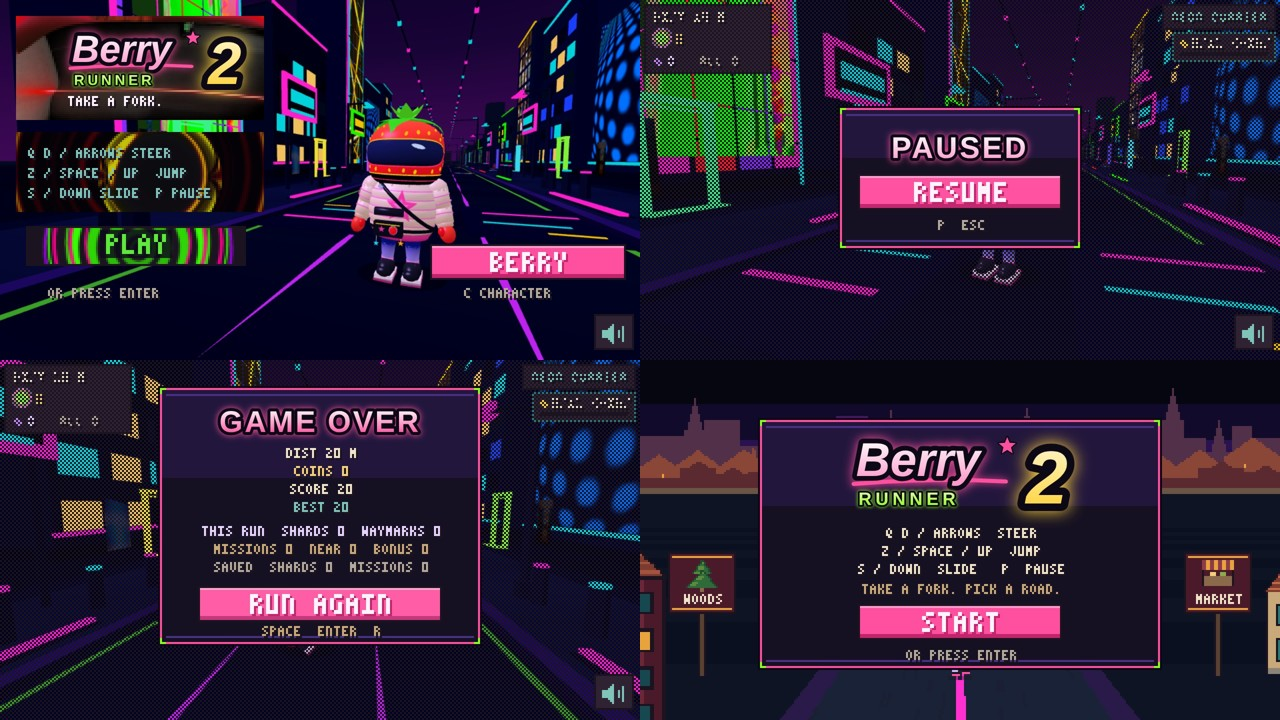
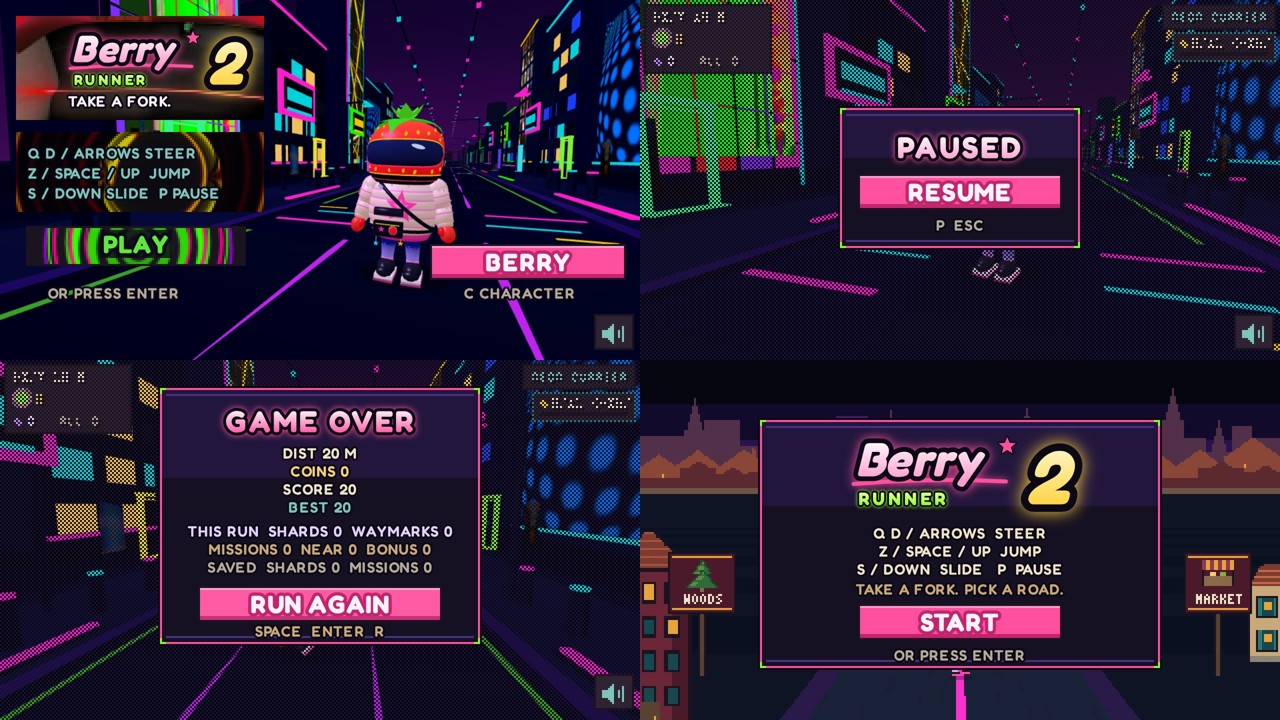
Menus: every line lettered in the game's font (Fredoka) at the screen's resolution
- the hints, the game-over figures and the button labels join the logo and the headings on the
  smooth layer (Renderer.txt / ctr collect a menu's text; drawMenuHi letters it)
- Fredoka (OFL) bundled in assets/fonts and cached by the service worker (cache v2)
- the UI test looks for the controls text on the smooth layer

diff --git a/src/render.js b/src/render.js
@@ -109,7 +109,7 @@ class Renderer {
   drawUI(g) {
     const ctx = this.ctx;
     if (g.state === 'race' && g.race) { this.drawRaceHud(g); this.drawTouch(g); if (g.fadeIn > 0) this.drawSceneOverlay(g); return; }
-    if (g.racePaused) { this.drawRaceHud(g); this.drawTouch(g); this.drawPause(g); if (g.sfx) this.drawSoundBtn(g); return; }      // a paused race: its own HUD under the same PAUSED panel as the run's
+    if (g.racePaused) { this.drawRaceHud(g); this.drawTouch(g); const hq = this.hiMenu(g) ? (this._hq = []) : null; this.drawPause(g); this._hq = null; if (hq) this.drawMenuHi(g, this.touchLayer(), hq); if (g.sfx) this.drawSoundBtn(g); return; }      // a paused race: its own HUD under the same PAUSED panel as the run's
     // (g.vr: the 3D build in immersive VR, src3d/xr3d.js. This canvas is then a floating panel, so what covers the whole screen (the flash, the portal light, the fades, the letterbox) and the
     // screen-space scooter disc are left out of it, and so are the keyboard / touch hints; nothing else changes)
     if (g.state === 'over' && g.flash > 0 && !g.vr) { ctx.globalAlpha = 0.5; ctx.fillStyle = C.burg; ctx.fillRect(0, 0, VW, VH); ctx.globalAlpha = 1; }
@@ -118,9 +118,11 @@ class Renderer {
     this.drawTouch(g);
     if (g.state === 'play' && !g.vr) this.drawScooterHint(g);
     if (g.scene || g.fadeIn > 0) this.drawSceneOverlay(g);
+    const hq = this.menuKind(g) && this.hiMenu(g) ? (this._hq = []) : null;      // the menus: their panels and button faces on the pixel canvas, their lettering on the smooth layer
     if (g.state === 'title') this.drawTitle(g);
     else if (g.state === 'pause') this.drawPause(g);
     else if (g.state === 'over' && g.overT > g.overDelay) this.drawOver(g);
+    this._hq = null; if (hq) this.drawMenuHi(g, this.touchLayer(), hq);
     if (g.sfx && g.state !== 'play' && g.state !== 'scene') this.drawSoundBtn(g);
   }
 
@@ -292,8 +294,9 @@ class Renderer {
   }
 
   // ---- interface: compact plates and buttons share one border/plum/amber language
-  txt(s, x, y, col, sc = 1, sh = C.ink) { const o = Math.max(1, sc >> 1); drawText(this.ctx, s, x + o, y + o, sh, sc); drawText(this.ctx, s, x, y, col, sc); }
-  ctr(s, y, col, sc = 1, sh = C.ink) { this.txt(s, Math.round((VW - textW(s, sc)) / 2), y, col, sc, sh); }
+  // (while a menu is being drawn for the smooth layer, this._hq collects its text instead: Renderer.drawMenuHi letters it in the game's font at the screen's resolution)
+  txt(s, x, y, col, sc = 1, sh = C.ink) { if (this._hq) { this._hq.push([s, x, y, col, sc, 0]); return; } const o = Math.max(1, sc >> 1); drawText(this.ctx, s, x + o, y + o, sh, sc); drawText(this.ctx, s, x, y, col, sc); }
+  ctr(s, y, col, sc = 1, sh = C.ink) { if (this._hq) { this._hq.push([s, VW / 2, y, col, sc, 1]); return; } this.txt(s, Math.round((VW - textW(s, sc)) / 2), y, col, sc, sh); }
   panel(x, y, w, h) {
     const c = this.ctx;
     // BERRY RUNNER 2's panel: deep night violet (a shade lighter toward the top), a neon pink frame with a soft glow line inside it, lime ticks at the corners
@@ -312,12 +315,14 @@ class Renderer {
   hiMenu(g) { return !!this.touchLayer() && !g.vr; }
   // THE MENUS IN HIGH RESOLUTION: the logo of the title screen and the headings of the pause and game-over panels are drawn as smooth lettering on the layer that carries the touch buttons
   // during a run (it is free on these screens), at the screen's own pixel density instead of the 320 x 180 grid. Drawn once per screen (and again after a resize): a still layer costs nothing.
-  drawMenuHi(g, L) {
-    const kind = g.state === 'title' ? 'title' : g.state === 'pause' ? 'pause' : g.state === 'over' && g.overT > g.overDelay ? 'over' : '';
+  menuKind(g) { return g.state === 'title' ? 'title' : g.state === 'pause' ? 'pause' : g.state === 'over' && g.overT > g.overDelay ? 'over' : ''; }
+  drawMenuHi(g, L, q) {
+    const kind = this.menuKind(g);
     if (!kind || !this.hiMenu(g)) return false;
-    const sig = kind + '|' + L.cv.width + 'x' + L.cv.height + '|' + (this.menu3d ? 3 : 2) + (kind === 'over' && g.pk ? 'p' : '');
+    if (this._font === undefined) { this._font = 0; try { document.fonts.load('700 12px Fredoka').then(() => { this._font = 1; }, () => {}); } catch (e) {} }      // (the game's font, assets/fonts/fredoka.woff2: the menu is lettered again once it has arrived)
+    const sig = kind + '|' + L.cv.width + 'x' + L.cv.height + '|' + (this.menu3d ? 3 : 2) + (kind === 'over' && g.pk ? 'p' : '') + this._font + '|' + (q ? q.join(';') : '');
     if (sig === L.msig && L.dirty) return true;
-    const c = L.ctx, k = L.cv.width / (VW + 2 * TOUCH_OUT), T = Renderer.THEME, FONT = '"Trebuchet MS", "Segoe UI", "Helvetica Neue", Arial, sans-serif';
+    const c = L.ctx, k = L.cv.width / (VW + 2 * TOUCH_OUT), T = Renderer.THEME, FONT = 'Fredoka, "Trebuchet MS", "Segoe UI", "Helvetica Neue", Arial, sans-serif';
     c.setTransform(1, 0, 0, 1, 0, 0); c.clearRect(0, 0, L.cv.width, L.cv.height); c.setTransform(k, 0, 0, k, TOUCH_OUT * k, 0); L.dirty = true; L.msig = sig; L.t = null; L.sig = null;
     const word = (str, x, y, px, o) => {                          // a word with a dark edge, a soft neon glow and a vertical gradient (o.align, o.italic, o.space, o.a / o.b: the gradient)
       c.save(); c.font = (o.italic ? 'italic ' : '') + '900 ' + px + 'px ' + FONT; c.textAlign = o.align || 'left'; c.textBaseline = 'alphabetic'; if (o.space && 'letterSpacing' in c) c.letterSpacing = o.space + 'px';
@@ -334,6 +339,12 @@ class Renderer {
       word('2', x0 + 68 * s, y0 + 11 * s, 30 * s, { italic: true, a: '#fff6c9', b: T.gold, glow: T.gold });
     } else if (kind === 'pause') word('PAUSED', VW / 2, 79, 15, { align: 'center', a: '#ffffff', b: T.pinkL, space: 1.2 });
     else word('GAME OVER', VW / 2, g.pk ? 36 : 54, 15, { align: 'center', a: '#ffffff', b: T.pink, space: 1 });
+    // every line of the menu (the hints, the figures of the run, the labels of the buttons): the same places and colours as the pixel lettering it replaces, in the game's font
+    if (q) for (const [str, x, y, colr, sc, mid, edge] of q) {
+      const px = sc >= 3 ? 17 : sc === 2 ? 12.5 : 7.4;
+      c.font = (sc >= 2 ? '700 ' : '600 ') + px + 'px ' + FONT; c.textAlign = mid ? 'center' : 'left'; c.textBaseline = 'top'; if ('letterSpacing' in c) c.letterSpacing = (sc >= 2 ? 0.5 : 0.35) + 'px';
+      c.lineJoin = 'round'; c.lineWidth = px * 0.26; c.strokeStyle = edge || T.ink; c.strokeText(str, x, y - 0.6); c.fillStyle = colr; c.fillText(str, x, y - 0.6);
+    }
     return true;
   }
   plate(x, y, w, h, edge = C.ink) {
@@ -352,6 +363,7 @@ class Renderer {
       if (pr) { c.fillStyle = 'rgba(40,10,60,0.32)'; c.fillRect(b.x, b.y, b.w, b.h); } else if (hov) { c.fillStyle = 'rgba(90,230,70,0.30)'; c.fillRect(b.x, b.y, b.w, b.h); }
       const tw = textW(b.label, 2), tx = Math.round(b.x + (b.w - tw) / 2), ty = b.y + 3 + (pr ? 1 : 0);
       c.fillStyle = 'rgba(14,8,26,0.82)'; c.fillRect(tx - 3, ty - 2, tw + 6, 14);
+      if (this._hq) this._hq.push([b.label, b.x + b.w / 2, ty, pr ? '#2f9a2a' : hov ? '#b4f58c' : '#5ee83c', 2, 1]); else
       drawText(c, b.label, tx, ty, pr ? '#2f9a2a' : hov ? '#b4f58c' : '#5ee83c', 2);   // a green label
       return;
     }
@@ -360,7 +372,7 @@ class Renderer {
     c.fillStyle = pr ? T.pinkD : hov ? T.pinkL : T.pink; c.fillRect(b.x, b.y, b.w, b.h);
     if (!pr) { c.fillStyle = T.pinkD; c.fillRect(b.x, b.y + b.h - 2, b.w, 2); c.fillStyle = T.pinkL; c.fillRect(b.x, b.y, b.w, 1); }
     if (this.beatPulse > 0.01 && !pr) { c.fillStyle = 'rgba(255,255,255,' + (0.18 * this.beatPulse).toFixed(3) + ')'; c.fillRect(b.x, b.y, b.w, b.h); }      // (it glows on the beat, like START)
-    { const tx = Math.round(b.x + (b.w - textW(b.label, 2)) / 2), ty = b.y + 3 + (pr ? 1 : 0); drawText(c, b.label, tx + 1, ty + 1, T.pinkD, 2); drawText(c, b.label, tx, ty, T.text, 2); }
+    { const tx = Math.round(b.x + (b.w - textW(b.label, 2)) / 2), ty = b.y + 3 + (pr ? 1 : 0); if (this._hq) this._hq.push([b.label, b.x + b.w / 2, ty, T.text, 2, 1, T.pinkD]); else { drawText(c, b.label, tx + 1, ty + 1, T.pinkD, 2); drawText(c, b.label, tx, ty, T.text, 2); } }
   }
 
   // on-screen controls (touch devices only): each button wears the user's neon ring (TOUCH_ART) with its symbol drawn over it in pixels, light with a dark edge so it reads on the
@@ -434,7 +446,7 @@ class Renderer {
   static get TOUCH_IDS() { return Renderer._touchIds || (Renderer._touchIds = ['left', 'right', 'slide', 'jump', 'pause', 'spin', 'flip', 'ollie']); }      // the buttons that ease in and out when pressed (one shared list)
   drawTouch(g) {
     const L = this.touchLayer();
-    if (L && g.state !== 'play' && g.state !== 'race' && this.drawMenuHi(g, L)) return;      // (the title, pause and game-over screens draw their lettering on it)
+    if (L && g.state !== 'play' && g.state !== 'race' && this.menuKind(g) && this.hiMenu(g)) return;      // (the title, pause and game-over screens letter themselves on it: drawUI, Renderer.drawMenuHi)
     if (!g.touch || (g.state !== 'play' && g.state !== 'race')) { if (L) { L.msig = null; if (L.dirty) { L.ctx.setTransform(1, 0, 0, 1, 0, 0); L.ctx.clearRect(0, 0, L.cv.width, L.cv.height); L.dirty = false; } L.t = null; L.sig = null; } return; }
     const sm = L && L.img.complete && L.img.naturalWidth ? L : null;
     if (sm) {

diff --git a/tests/qa3d_ui.js b/tests/qa3d_ui.js
@@ -20,13 +20,14 @@ const res = []; const T = (n, ok, i = '') => { res.push(ok); console.log((ok ? '
     const stats = (x, y, w, h) => { const d = ctx.getImageData(x, y, w, h).data; let lum = 0, red = 0, text = 0, sat = 0, white = 0, n = 0, mn = 255, mx = 0; for (let i = 0; i < d.length; i += 4) { const l = (d[i] + d[i + 1] + d[i + 2]) / 3; lum += l; if (d[i] > 150 && d[i + 1] < 90 && d[i + 2] < 90) red++; if (Math.max(d[i], d[i + 1], d[i + 2]) - Math.min(d[i], d[i + 1], d[i + 2]) > 70) sat++; if (d[i] > 225 && d[i + 1] > 225 && d[i + 2] > 225) white++; if (Math.abs(d[i] - bone[0]) < 8 && Math.abs(d[i + 1] - bone[1]) < 8 && Math.abs(d[i + 2] - bone[2]) < 8) text++; mn = Math.min(mn, l); mx = Math.max(mx, l); n++; } return { mean: Math.round(lum / n), red, text, sat, white, range: Math.round(mx - mn) }; };
     const grab = () => { g.r.draw(g); return { title: stats(10, 10, 120, 48), controls: stats(10, 68, 120, 36) }; };
     g.state = 'title'; out.withImage = grab();
+    { const tc = document.getElementById('touch'), k = tc.width / (VW + 2 * TOUCH_OUT), d = tc.getContext('2d').getImageData(Math.round((10 + TOUCH_OUT) * k), Math.round(68 * k), Math.round(120 * k), Math.round(36 * k)).data; let n = 0; for (let i = 0; i < d.length; i += 4) if (d[i + 3] > 200 && Math.abs(d[i] - bone[0]) < 12 && Math.abs(d[i + 1] - bone[1]) < 12 && Math.abs(d[i + 2] - bone[2]) < 12) n++; out.hiText = n; out.hiScale = +k.toFixed(2); }      // the menus' lettering is on the smooth layer since Berry Runner 2 (Renderer.drawMenuHi): the controls text is looked for there, in its own colour
     ui.titleImg = null; ui.controlsImg = null; out.fallback = grab();            // no images: the old drawn panels (a light border and a plain dark fill)
     ui.titleImg = ti; ui.controlsImg = ci; out.restored = grab();
     return out;
   });
   T('both panel images load at their embedded sizes (496 x 208 and 496 x 160)', U.loaded && U.loadedControls, JSON.stringify({ title: U.loaded, controls: U.loadedControls }));
   T('title panel: the artwork shows its dark body and glowing red line (red pixels present, dark mean)', U.withImage.title.red > 10 && U.withImage.title.mean < 90 && U.withImage.title.range > 100, JSON.stringify(U.withImage.title));
-  T('controls panel: the colourful artwork shows through the veil (many saturated pixels; the plain drawn panel is no longer a colourless one to compare with: since Berry Runner 2 it has its own pink and violet theme) and the text is legible (its colour is present in numbers)', U.withImage.controls.sat > 150 && U.fallback.controls.text === 0 && U.withImage.controls.mean < 110 && U.withImage.controls.text > 40, JSON.stringify({ art: U.withImage.controls, drawn: U.fallback.controls }));
+  T('controls panel: the colourful artwork shows through the veil (many saturated pixels; the plain drawn panel is no longer a colourless one to compare with: since Berry Runner 2 it has its own pink and violet theme) and the text is legible (its colour is present in numbers)', U.withImage.controls.sat > 150 && U.fallback.controls.text === 0 && U.withImage.controls.mean < 110 && U.hiText > 40 * U.hiScale * U.hiScale, JSON.stringify({ art: U.withImage.controls, drawn: U.fallback.controls, hiText: U.hiText, hiScale: U.hiScale }));
   T('without the images the usual drawn panels are the fallback (no red line), and restoring them brings the artwork back', U.fallback.title.red === 0 && U.restored.title.red === U.withImage.title.red && Math.abs(U.restored.controls.mean - U.withImage.controls.mean) <= 3, JSON.stringify({ withImage: U.withImage, fallback: U.fallback, restored: U.restored }));
   // the main button (PLAY): artwork face, hover / pressed feedback, the fallback, and that RESUME / RUN AGAIN stay plain amber
   const B = await pg.evaluate(() => {

diff --git a/sw.js b/sw.js
@@ -3,12 +3,12 @@
 //  - PAGES AND SCRIPTS: network first (a new version pushed to the site is played at the next start), the cache when there is no network.
 //  - MUSIC AND PICTURES: cache first (they do not change), fetched and kept the first time otherwise.
 // Bump VERSION to drop every older cache.
-const VERSION = 'berry-runner-2-v1', MEDIA = /\.(mp3|ogg|png|jpg|jpeg|webp|svg)$/i;
+const VERSION = 'berry-runner-2-v2', MEDIA = /\.(mp3|ogg|png|jpg|jpeg|webp|svg|woff2)$/i;
 self.addEventListener('install', e => {
   e.waitUntil((async () => {
     const cache = await caches.open(VERSION), page = await fetch('./index.html', { cache: 'no-cache' }), html = await page.clone().text();
     await cache.put('./', page.clone()); await cache.put('./index.html', page);
-    const urls = [...html.matchAll(/<script src="([^"]+)"/g)].map(m => m[1]).concat(['manifest.webmanifest', 'icons/icon-192.png', 'icons/icon-512.png', 'assets/music.mp3', 'assets/music_coast.mp3', 'assets/music_race.mp3', 'assets/music_kart.mp3']);
+    const urls = [...html.matchAll(/<script src="([^"]+)"/g)].map(m => m[1]).concat(['manifest.webmanifest', 'icons/icon-192.png', 'icons/icon-512.png', 'assets/fonts/fredoka.woff2', 'assets/music.mp3', 'assets/music_coast.mp3', 'assets/music_race.mp3', 'assets/music_kart.mp3']);
     await Promise.all(urls.map(u => fetch(u, { cache: 'no-cache' }).then(r => r.ok && r.status === 200 ? cache.put(u, r) : null).catch(() => null)));      // (one missing file must not stop the install)
     await self.skipWaiting();
   })());

diff --git a/src/pwa.js b/src/pwa.js
@@ -9,7 +9,7 @@
   let deferred = null, btn = null, tip = null;
   const make = () => {
     btn = document.createElement('button'); btn.id = 'install'; btn.type = 'button'; btn.textContent = 'INSTALL APP';
-    btn.style.cssText = 'position:fixed;left:50%;bottom:calc(10px + env(safe-area-inset-bottom));transform:translateX(-50%);z-index:20;display:none;padding:9px 18px;border:2px solid #ff4f9e;border-radius:999px;background:#151022;color:#fff;font:bold 13px/1 system-ui,sans-serif;letter-spacing:.08em;box-shadow:0 0 14px rgba(255,79,158,.55);touch-action:manipulation;cursor:pointer';
+    btn.style.cssText = 'position:fixed;left:50%;bottom:calc(10px + env(safe-area-inset-bottom));transform:translateX(-50%);z-index:20;display:none;padding:9px 18px;border:2px solid #ff4f9e;border-radius:999px;background:#151022;color:#fff;font:700 13px/1 Fredoka,system-ui,sans-serif;letter-spacing:.08em;box-shadow:0 0 14px rgba(255,79,158,.55);touch-action:manipulation;cursor:pointer';
     btn.addEventListener('click', async ev => {
       ev.stopPropagation();
       if (deferred) { deferred.prompt(); try { await deferred.userChoice; } catch (e) {} deferred = null; show(); }

diff --git a/index.html b/index.html
@@ -13,6 +13,7 @@
 <link rel="icon" type="image/png" sizes="192x192" href="icons/icon-192.png">
 <link rel="apple-touch-icon" href="icons/apple-touch-icon.png">
 <style>
+  @font-face { font-family: Fredoka; src: url(assets/fonts/fredoka.woff2) format('woff2'); font-weight: 300 700; font-display: swap; }   /* the game's font (SIL Open Font License, assets/fonts/OFL-Fredoka.txt): the menus */
   html, body { margin: 0; height: 100%; background: #151022; overflow: hidden; overscroll-behavior: none; }
   body { box-sizing: border-box; padding: env(safe-area-inset-top, 0px) env(safe-area-inset-right, 0px) env(safe-area-inset-bottom, 0px) env(safe-area-inset-left, 0px); height: 100dvh; display: flex; align-items: center; justify-content: center; -webkit-user-select: none; user-select: none; -webkit-tap-highlight-color: transparent; touch-action: none; }
   /* the 3D view fills the window; the pixel-art HUD/menu canvas (320x180, whole-number scale) sits centred on top of it */

diff --git a/style.css b/style.css
@@ -1,3 +1,4 @@
+@font-face { font-family: Fredoka; src: url(assets/fonts/fredoka.woff2) format('woff2'); font-weight: 300 700; font-display: swap; }   /* the game's font (SIL Open Font License, assets/fonts/OFL-Fredoka.txt): the menus */
 html, body { margin: 0; height: 100%; background: #1b1420; overflow: hidden; overscroll-behavior: none; }
 body { height: 100dvh; display: flex; flex-direction: column; align-items: center; justify-content: center;
        -webkit-user-select: none; user-select: none; -webkit-tap-highlight-color: transparent; touch-action: none; }

diff --git a/README.md b/README.md
@@ -165,7 +165,7 @@ The trees are **your blossom-tree photo** (`src3d/blossom_assets.js` / `blossom_
 - Camera: a chase camera behind and above the runner that follows the active route's centre, looks 20 m down it, and blends gradually into the fork's biome. Sky, fog and light colours, road palette and scenery all blend between city, forest and market (scenery per road side is chosen per 12 m slot by the blend at that spot).
 - Biomes are `src3d/env_city.js`, `env_forest.js`, `env_market.js` (colours, road palette, props, layout rule); the market detour reuses the city's buildings and street props with a different layout and a warmer cobbled road. A new biome is a new `ENV3D.<id>` plus a segment in `track.js`.
 
-**Berry Runner 2: the menus and the picture.** The title screen wears the Berry Runner 2 logo ('Berry' with its star and a pink swoosh, RUNNER in lime, a gold 2), and the pause and game-over panels their headings, as smooth lettering at the screen's own resolution instead of the 320 x 180 pixel grid: they are drawn on the layer that carries the touch buttons during a run (`Renderer.drawMenuHi`, once per screen, so a still menu costs nothing; in VR the pixel stand-in is used). The panels and the plain buttons have a new theme in Berry's palette (`Renderer.THEME`: night violet, a neon pink frame, lime corner ticks, pink buttons with a white label that glow on the beat). The 3D picture is a touch richer (`#gl.rich` in `index.html`: saturation +16 %, contrast +5 %, applied by the compositor to the finished frame; `?fx=0` turns it off; no material or light was changed). The 3D resolution is still adaptive (1.5 to 2.25 device pixels per CSS pixel, following the frame rate). Your artwork (the two title panels, the START button, the touch buttons) is used as it was.
+**Berry Runner 2: the menus and the picture.** The title screen wears the Berry Runner 2 logo ('Berry' with its star and a pink swoosh, RUNNER in lime, a gold 2), and the pause and game-over panels their headings, as smooth lettering at the screen's own resolution instead of the 320 x 180 pixel grid: they are drawn on the layer that carries the touch buttons during a run (`Renderer.drawMenuHi`, once per screen, so a still menu costs nothing; in VR the pixel stand-in is used). The panels and the plain buttons have a new theme in Berry's palette (`Renderer.THEME`: night violet, a neon pink frame, lime corner ticks, pink buttons with a white label that glow on the beat). The 3D picture is a touch richer (`#gl.rich` in `index.html`: saturation +16 %, contrast +5 %, applied by the compositor to the finished frame; `?fx=0` turns it off; no material or light was changed). The 3D resolution is still adaptive (1.5 to 2.25 device pixels per CSS pixel, following the frame rate). **Every line of the menus** (the control hints, the figures of the game-over panel, the labels of the buttons) is lettered on the same smooth layer in the game's font, **Fredoka** (`assets/fonts/fredoka.woff2`, 30 KB, SIL Open Font License: `assets/fonts/OFL-Fredoka.txt`; cached by the service worker for offline play), at the places and in the colours of the pixel lettering it replaces (`Renderer.txt` / `ctr` collect a menu's text while it is drawn). The in-run HUD keeps the pixel font. Your artwork (the two title panels, the START button, the touch buttons) is used as it was.
 
 **Polish pass (mobile, the underwater tunnel, race transitions, input).** See `CHANGELOG_GAMEPLAY_POLISH.md`: the touch buttons stay on the screen on 16:9 and upright phones, the HUD respects the safe area and refits on every screen change, a 'rotate your phone' line on an upright phone, the aquarium tunnel's vault follows its ramps, a race can be paused and returns cleanly to the road, Q is one action. Regression test: `tests/qa3d_polish.js`.
 
